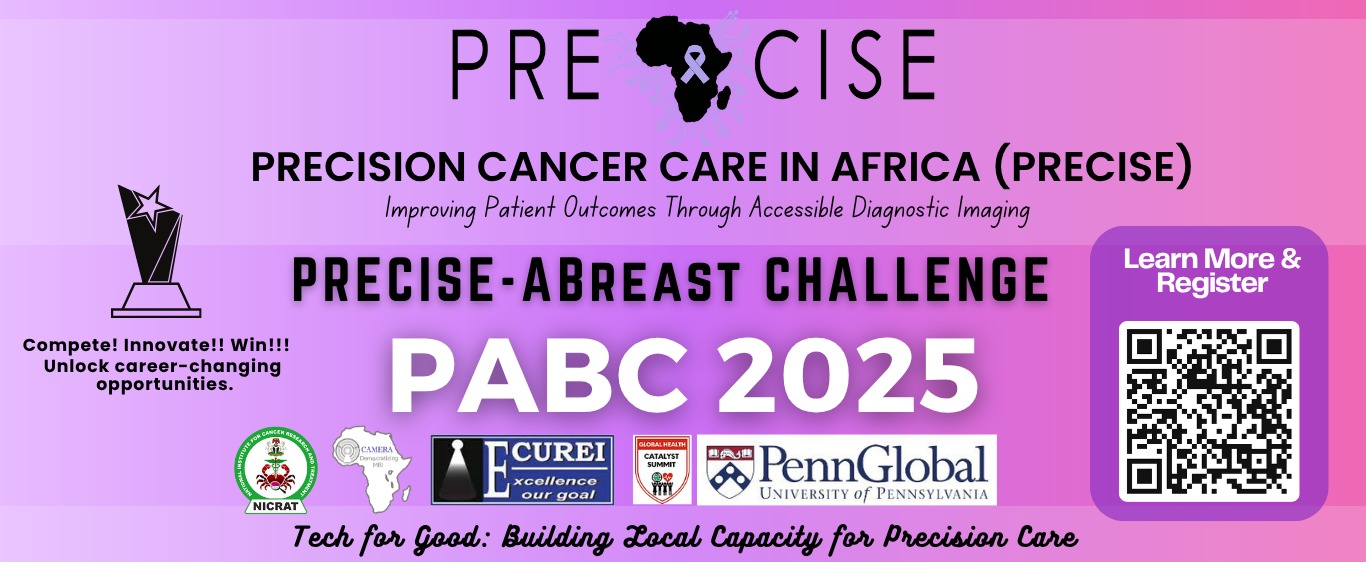
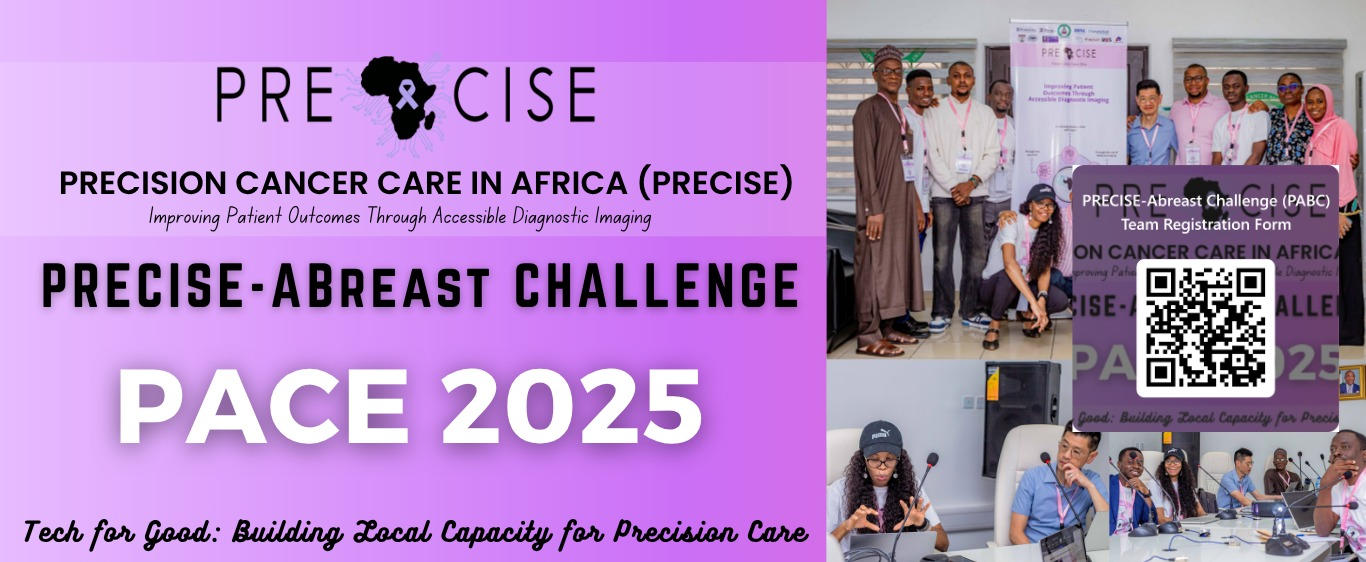
readme

diff --git a/README.md b/README.md
@@ -1,10 +1,10 @@
 ![PRECISE-Abreast Challenge Banner](https://github.com/PRECISE-Abreast-Challenge-PAC/PRECISE-Abreast-Challenge/blob/main/Resources/PRECISE-BANNER.jpg?raw=true)
 # 🩺 Welcome to the PRECISE-Abreast Challenge
-**PRECISE-Africa Breast Ultrasound Segmentation and Classification Challenge (PABC)**
+**PRECISE-Africa Breast Ultrasound Segmentation and Classification Challenge (PACE)**
 
 Breast cancer is highly prevalent in Africa, with many women presenting at late stages due to limited awareness, diagnostic access, and cultural stigma. The lack of annotated breast imaging datasets representative of African populations also limits the effectiveness of AI in supporting early detection. Radiologist shortages, financial constraints, and societal barriers further complicate timely diagnosis and care, especially in rural and underserved areas.
 
-The **PRECISE-Africa Breast Ultrasound Segmentation and Classification Challenge (PABC)** addresses these challenges by promoting **AI-driven solutions** using ultrasound data collected through the **ABreast Project**. This community-based initiative trains health workers to perform portable ultrasound exams and collect imaging data for machine learning. The challenge aims to develop accurate segmentation and classification algorithms tailored to African data, to improve with the aim of deploying these tools for early detection, enhancing diagnostic equity, and enabling scalable screening tools across low-resource settings
+The **PRECISE-Africa Breast (ABreast) Ultrasound Segmentation and Classification Challenge (PACE)** addresses these challenges by promoting **AI-driven solutions** using ultrasound data collected on African women through the **ABreast Project**. This community-based initiative improves access to breast cancer screening in vulnerable underserved communities using portable ultrasound scans performed in the community and enhanced tumor imaging using machine learning. The PACE Challenge aims to develop accurate segmentation and classification algorithms tailored to African breast ultrasound data, to advance the deployment of these accessible point-of-care tools for early detection, enhancing diagnostic equity, and enabling scalable screening tools across low-resource settings.
 
 ---
 
@@ -22,40 +22,35 @@ Please refer to the [Registration README](https://github.com/PRECISE-Abreast-Cha
 
 ## 📝 Award Eligibility
 
-To participate in the PRECISE-Abreast Challenge, applicants must:
+To participate in the PRECISE-ABreast Challenge, participating teams must meet the following requirements:
 
-- 🧑🎓 Be a **student, researcher, or clinician** in a relevant field, affiliated with an institution or organisation based in **Africa**  
-- 🌍 Be **currently residing in Africa**  
-- 🧾 Be **registered** for the **PRECISE Conference** and attend the **PRECISE-Abreast Workshop**, either **in person or online**  if participating as an individual or represented by a team member.
-- 📄 Submit a **camera-ready paper** reporting the details of the methods in **Springer’s LNCS format**  
-- ✅ Agree to the **Challenge Terms and Conditions**
+- 🧑🎓 Have active members who are students, researchers, or clinicians in a relevant field, affiliated with an institution or organisation based in **Africa**  
+- 🌍 Must have at least one or two active members who **currently residing in Africa**  
+- 🧾 Have active members who are registered to attend the **PRECISE Conference** and committed to attending the **PRECISE-ABreast Workshop,** either in person or Online, if participating as an individual or represented by a team member..
+- 📄 Submit a **camera-ready paper** reporting the details of the methods in **[Springer’s LNCS conference proceedings format](https://www.springer.com/gp/computer-science/lncs/conference-proceedings-guidelines?srsltid=AfmBOoqal5rcgwA-guJYqKR6WYb1NlPmMBZsFUNnys7gqkakP6V2XJZL)**  
+- ✅ Must agree to the **PRECISE-ABreast Challenge Terms and Conditions**
 
 ---
 
 ## 🗃 Dataset
 
-The PRECISE-Abreast Challenge utilizes a curated, multi-institutional dataset of breast ultrasound (BUS) images to support the development and evaluation of algorithms for **lesion detection, classification, and segmentation**. The dataset integrates images from four distinct sources: 
+The PRECISE-ABreast Challenge utilizes a curated, multi-institutional dataset of breast ultrasound (BUS) images to support the development and evaluation of algorithms for lesion detection, classification, and segmentation. The dataset integrates images from four distinct sources: the BUSI dataset by Al-Dhabyani et al. (2020)[1], the BrEaST dataset by Pawłowska et al. (2024)[2], the BUS-BRA dataset by Gómez-Flores et al. (2024)[3], and the ABreast point-of-care dataset, an unpublished prospective collection of breast handheld ultrasound scans from community-dwelling women in sub-Saharan Africa.
 
-- 📚 **BUSI** – Al-Dhabyani et al. (2020) [1]  
-- 🧪 **BrEaST** – Pawłowska et al. (2024) [2]  
-- 🔬 **BUS-BRA** – Gómez-Flores et al. (2024) [3]  
-- 🌍 **ABreast** – an unpublished prospective collection of breast ultrasound scans from sub-Saharan Africa.
+All images are paired with expert-verified reference annotations, including **lesion boundaries** and diagnostic labels (`normal, benign, malignant`), enabling robust supervised learning and quantitative evaluation. The combined dataset reflects a wide range of ultrasound acquisition protocols and patient demographics to improve algorithmic fairness and clinical relevance.
 
-All images are paired with expert-verified reference annotations, including  **lesion boundaries** and **diagnostic labels** ( `normal`, `benign`, `malignant`.), enabling robust supervised learning and quantitative evaluation. The combined dataset reflects a wide range of ultrasound acquisition protocols and patient demographics to improve algorithmic fairness and clinical relevance.
-
-**Phase I** includes **7,354  images across training and validation sets**, comprising
+**Phase I** of the challenge includes **7,354  images across training and validation sets**, comprising
 - 4,574 benign  
 - 2,248 malignant  
 - 532 normal  cases sourced from the **BUSI, BrEaST**, and **BUS-BRA** datasets.
 
-**Phase II** introduces new annotated cases from the **ABreast dataset**. A **private test subset** will be reserved for the Test Phase and used for the final evaluation of submitted models, ensuring blind, unbiased assessment on African-representative data.
+**Phase II** will introduce additional annotated cases from the **ABreast dataset**. A private subset of ABreast data will be reserved for the Test Phase and used for the final evaluation of submitted models, ensuring a blind, unbiased assessment of African-representative data.
 
 The dataset follows the naming convention outlined below:
 
 **File naming convention**:
-- `PABC`: Challenge name  
+- `PACE`: Name of the challenge  
 - `00001`: Subject ID  
-- `000–101`: Scan type & diagnosis:
+- `000–101`: Scan timepoint and diagnostic status, defined as:
   - 000: Baseline – Normal  
   - 001: Baseline – Benign  
   - 002: Baseline – Malignant  
@@ -64,7 +59,7 @@ The dataset follows the naming convention outlined below:
 - `DSET`: Dataset source tag, defined as:
   - `BUS`: `BUSI`, `BRE`: `BrEaST`, `BBR`: `BUS-BRA`, `ABR`: `Abreast`
 
-**Example**: `PABC_00023_002_ABR` → Subject 00023, baseline malignant, sourced from ABreast dataset
+**Example**: `PACE_00023_002_ABR` → Subject 00023, baseline malignant, sourced from ABreast dataset
 
 Each ultrasound study includes a single **2D grayscale image** or a **Doppler image**, with resolutions varying based on the equipment used.
 
@@ -75,7 +70,7 @@ Each ultrasound study includes a single **2D grayscale image** or a **Doppler im
 
 ## 🧠 Task: Multi-Task Classification, Breast Lesion detection and Segmentation
 
-🔍 Participants are required to design a single model that performs **multi-task learning**, simultaneously predicting the **breast-level diagnostic category** (`no lesion`, `benign lesion`, `malignant lesion`) and generating a **pixel-wise segmentation mask** of any visible lesion. This combined task reflects **real-world clinical workflows** where lesion detection, delineation, and diagnosis occur in parallel.
+🔍 Participants are required to design a single model that performs **multi-task learning**, simultaneously predicting the **breast-level diagnostic category** (no lesion, benign lesion, malignant lesion) and generating a **pixel-wise segmentation mask** of any visible lesion. This combined task reflects real-world clinical workflows where lesion detection, delineation, and diagnosis occur in parallel.
 
 By emphasising both classification and segmentation in a single pipeline, the challenge encourages the development of robust, efficient, and clinically meaningful models suited for automated breast cancer assessment in resource-constrained settings.
 
@@ -86,7 +81,8 @@ By emphasising both classification and segmentation in a single pipeline, the ch
 
 ## 📊 Evaluation Criteria
 
-🏁 Performance will be assessed by averaging raw ranks across segmentation and classification metrics. Segmentation will be evaluated using **Lesion-wise Dice Similarity Coefficient (DSC)** and **Normalized Surface Dice (NSD)**, while classification will be measured by **Area Under the Curve (AUC)**, specificity at 90% sensitivity, and sensitivity at 90% specificity. All metrics will contribute equally to the final ranking.
+🏁 Performance will be assessed by averaging raw ranks across segmentation and classification metrics. Segmentation will be evaluated using**Normalized Surface Dice (NSD)** and **Lesion-wise Dice Similarity Coefficient (DSC)**[4], while classification will be measured by **Area Under the Curve (AUC)**[5], specificity at 90% sensitivity, and sensitivity at 90% specificity[6]. All metrics will contribute equally to the final ranking.
+
 
 ### Segmentation:
 - 🎯 Lesion-wise **Dice Similarity Coefficient (DSC)**
@@ -107,9 +103,9 @@ Details for the Cog containerized model test evaluation are provided on Github.
 ## 🏆 Awards
 
 🎤 The **Top 3 contestants/teams** will be:
-- Invited and mentored to present their work as part of  **MIRASOL-NextGen Interchange Workshop @ MICCAI 2026** (Abu Dhabi UAE)
+- invited and mentored to submit their winning models to a leading oncology and women's imaging journal.
 
-🎓 **10 motivated participants** who demonstrated interest, motivation, leadership and determination will be shortlisted for **University of Pennsylvania Master of Science in Engineering in Data Science Scholarship.**
+🎓 **10 motivated participants** who demonstrated interest, motivation, leadership and determination will be shortlisted for the **University of Pennsylvania’s of Science in Engineering in Data Science Scholarship**.
 
 🏥 The **top 2 models** would be deployed for **clinical evaluation**
 
@@ -117,17 +113,18 @@ Details for the Cog containerized model test evaluation are provided on Github.
 
 ## 🗓 Important Dates
 
-The challenge will run across multiple phases, including training, validation, and test periods.  
+📅 The challenge will run across multiple phases, including training, validation, and test periods.  
 Please refer to the timeline below for key dates and deadlines:
 
 ![PRECISE-Abreast Timeline](https://github.com/PRECISE-Abreast-Challenge-PAC/PRECISE-Abreast-Challenge/blob/main/Resources/timeline.jpg?raw=true)
+
 
 ---
 
 ## 👥 Abreast Data Contributors
 
-- 🏥 **Ernest Cook Ultrasound Research and Education Institute** – Kampala, Uganda  
-- 🏥 **Crestview Radiology Ltd** – Lagos, Nigeria
+- 🏥 **Ernest Cook Ultrasound Research and Education Institute (ECUREI)**, Kampala, Uganda
+- 🏥 **Crestview Radiology Ltd, Lagos, Nigeria / Medical Artificial Intelligence Lab.** Lagos, Nigeria
 
 📂 **Access Instructions:**  
 You can find full details, structure, and download instructions in the [Dataset README](https://github.com/PRECISE-Abreast-Challenge-PAC/PRECISE-Abreast-Challenge/blob/main/dataset.md).
@@ -145,7 +142,7 @@ Please refer to the [Submission README](https://github.com/PRECISE-Abreast-Chall
 ---
 
 ## 📜 Terms and Conditions
-📌 **Terms and conditions apply** – please review the full document here:  
+📌 **Terms and conditions apply** please review the full document here:  
 [View Full Terms and Conditions](https://github.com/PRECISE-Abreast-Challenge-PAC/PRECISE-Abreast-Challenge/blob/main/terms_conditions.md)
 
 ---
@@ -161,3 +158,6 @@ Please contact us for further questions or comments via email:  **preciseabrestc
 -  [1] Al-Dhabyani, Walid, Mohammed Gomaa, Hussien Khaled, and Aly Fahmy. "Dataset of breast ultrasound images." Data in brief 28 (2020): 104863. 
 -  [2]  Pawłowska, A., Ćwierz-Pieńkowska, A., Domalik, A., Jaguś, D., Kasprzak, P., Matkowski, R., Fura, Ł., Nowicki, A., & Zolek, N. A Curated benchmark dataset for ultrasound-based breast lesion analysis. Sci Data 11, 148 (2024). https://doi.org/10.1038/s41597-024-02984-z.  
 -  [3] Gómez-Flores, Wilfrido, Maria Julia Gregorio-Calas, and Wagner Coelho de Albuquerque Pereira. "BUS-BRA: A breast ultrasound dataset for assessing computer-aided diagnosis systems." Medical Physics 51, no. 4 (2024): 3110-3123.
+-  [4] Zhang E, Seiler S, Chen M, Lu W, Gu X. Boundary-aware semi-supervised deep learning for breast ultrasound computer-aided diagnosis. In 2019 41st Annual International Conference of the IEEE Engineering in Medicine and Biology Society (EMBC) 2019 Jul 23 (pp. 947-950). IEEE.
+-  [5] Zhao G, Kong D, Xu X, Hu S, Li Z, Tian J. Deep learning-based classification of breast lesions using dynamic ultrasound video. European Journal of Radiology. 2023 Aug 1;165:110885.
+-  [6] Byra M, Galperin M, Ojeda‐Fournier H, Olson L, O'Boyle M, Comstock C, Andre M. Breast mass classification in sonography with transfer learning using a deep convolutional neural network and color conversion. Medical physics. 2019 Feb;46(2):746-55.
